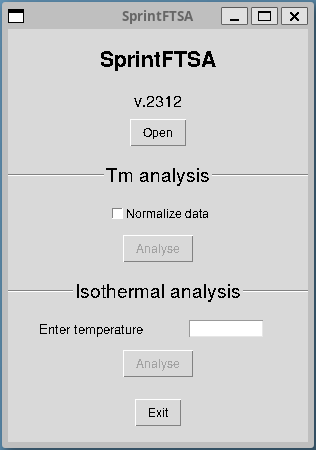
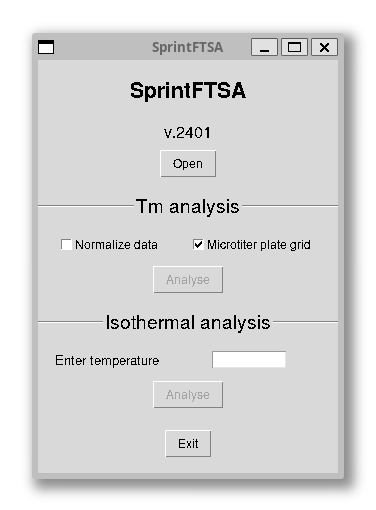
Tm values are optionally exported as a 2:3 matrix

diff --git a/SprintFTSA.py b/SprintFTSA.py
@@ -112,6 +112,24 @@ class Application():
                     title = header[well]
                     make_plot(temperature, fluorescence, fit_parameters, min_fluor, max_fluor, title)
                 output = np.vstack((output, results))
+            # feature to get Tm values as a plate grid, if the option is ticked.
+            if grid_output_checkbox_value.get() == 1:
+                tm_values = output[1:, 4]
+                number_of_wells = tm_values.size
+                number_of_rows = (number_of_wells * 2 / 3)**0.5
+                number_of_columns = number_of_wells / number_of_rows
+                # check if 2:3 rectangular matrix is possible
+                try:
+                    if number_of_rows.is_integer and number_of_columns.is_integer:
+                        number_of_rows = int(number_of_rows) 
+                        number_of_columns = int(number_of_columns)
+                    else:
+                        raise Exception("Results list can not be reshapen.")
+                    tm_in_grid = tm_values.reshape(number_of_rows, number_of_columns)
+                    np.savetxt(path.join(path.dirname(output_filepath), "Tm_as_grid.csv"), 
+                                     tm_in_grid, fmt="%s", delimiter=",")
+                except Exception:
+                    tk.messagebox.showerror("Error", "Input data can not be reshapen into a 2:3 matrix (96-wells, 384-wells...).")
             np.savetxt(output_filepath, output, fmt="%s", delimiter=',')
 
 #       "end-1c" to avoid new line.
@@ -152,11 +170,14 @@ class Application():
         
         normalize_checkbox_value = tk.IntVar()
         normalize_checkbox = tk.Checkbutton(master, text='Normalize data',
-                                            variable=normalize_checkbox_value, onvalue=1, offvalue=0)
-        grid_output_checkbox_value = tk.IntVar()
+                                            variable=normalize_checkbox_value,
+                                            onvalue=1, offvalue=0)
+
+        grid_output_checkbox_value = tk.IntVar(value = 1)
         grid_output_checkbox = tk.Checkbutton(master, text='Microtiter plate grid',
                                               variable=grid_output_checkbox_value, onvalue=1,
                                               offvalue=0)
+
         separator_1 = ttk.Separator(root, orient='horizontal')
         separator_2 = ttk.Separator(root, orient='horizontal')
         
@@ -186,7 +207,7 @@ class Application():
         isothermal_analysis_button.grid(row=8, column=0, columnspan=2, pady=5)
         exit_button.grid(row=9, column=0, columnspan=2, pady=15)
 
-version = 'v.2312'
+version = 'v.2401'
 
 if __name__ == '__main__':
     root = tk.Tk()
